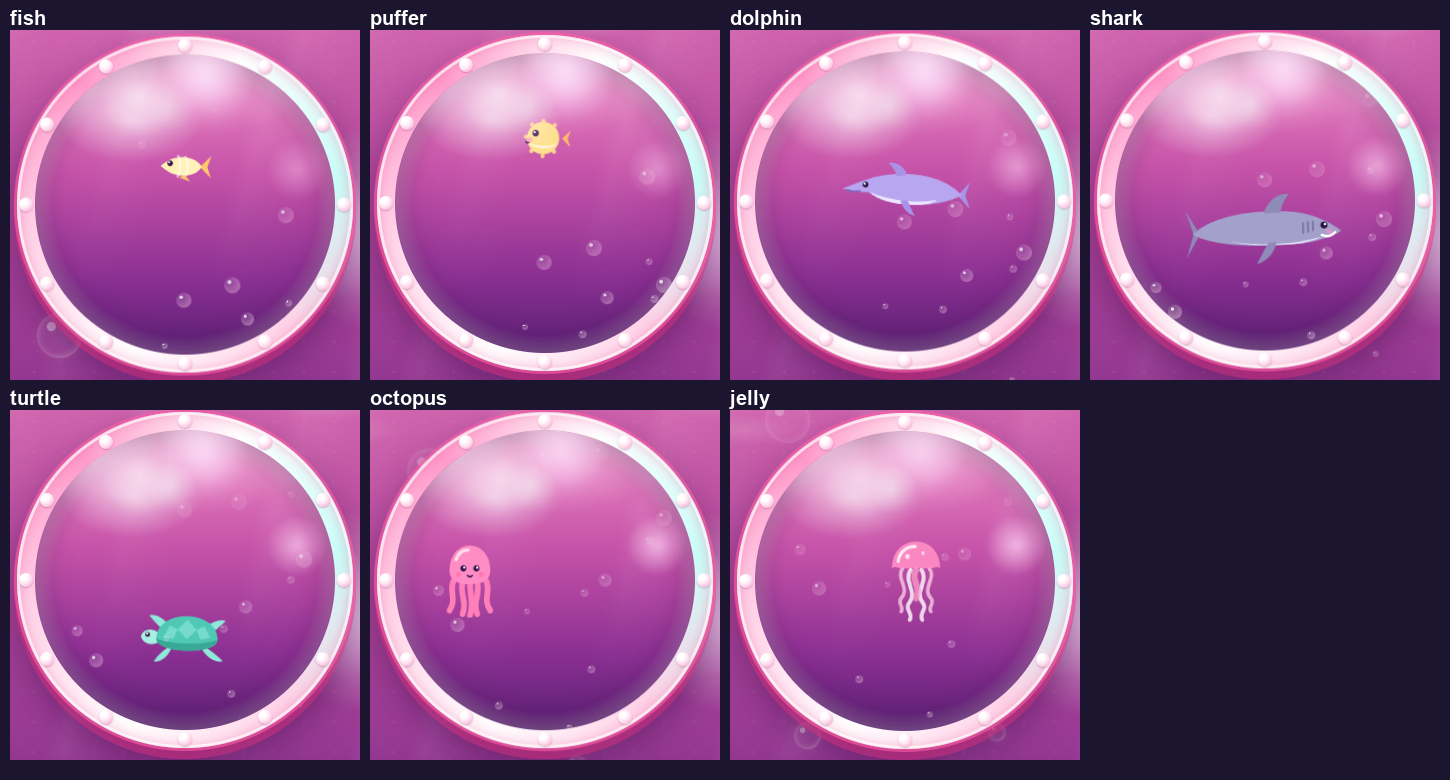
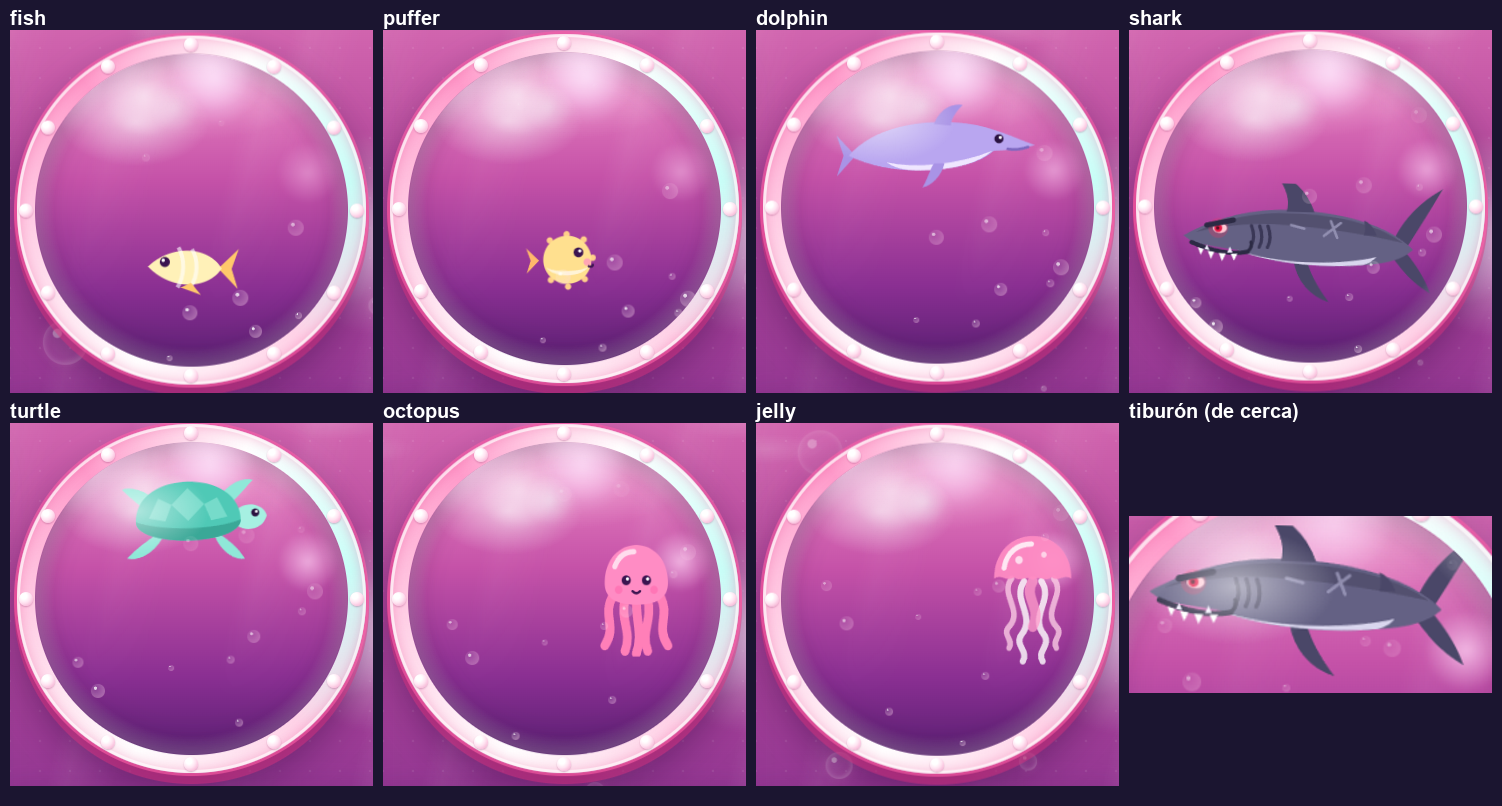
Overlay: tiburón que da miedo y animales más grandes

diff --git a/overlay/overlay.html b/overlay/overlay.html
@@ -518,16 +518,36 @@ html, body {
     <circle cx="96" cy="21" r="2.6" fill="#2a1240"/><circle cx="96.8" cy="20.2" r=".9" fill="#fff"/>
     <path d="M101 27 C106 28 110 27 113 26" stroke="#7d68c0" stroke-width="1.6" fill="none" stroke-linecap="round"/>
   </symbol>
-  <symbol id="c-shark" viewBox="0 0 130 58">
-    <path d="M12 31 L1 12 L7 31 L1 50Z" fill="#8e8bb8"/>
-    <path d="M6 31 C20 18 48 12 82 14 C102 15 117 23 127 31 C117 37 101 41 82 41 C48 43 20 39 6 31Z" fill="#a3a0cc"/>
-    <path d="M36 37 C56 42 90 42 112 35 C101 40 92 41 82 41 C60 42 46 40 36 37Z" fill="#ecebff"/>
-    <path d="M64 15 C70 1 80 -1 85 0 C80 6 78 12 78 15Z" fill="#8e8bb8"/>
-    <path d="M74 39 C72 49 64 55 58 56 C63 47 66 41 68 39Z" fill="#8e8bb8"/>
-    <path d="M96 24 V32 M100 23 V31 M104 23 V30" stroke="#7d7aa8" stroke-width="1.8" stroke-linecap="round"/>
-    <circle cx="113" cy="26" r="2.8" fill="#2a1240"/><circle cx="113.8" cy="25.2" r="1" fill="#fff"/>
-    <path d="M111 34 C115 36 119 35 122 32" stroke="#fff" stroke-width="2" fill="none" stroke-linecap="round"/>
-    <circle cx="117" cy="31" r="2.4" fill="#ff8cc4" opacity=".55"/>
+  <symbol id="c-shark" viewBox="0 0 160 72">
+    <!-- cola (lóbulo de arriba más grande, como un tiburón de verdad) -->
+    <path d="M22 37 C14 24 7 12 1 1 C15 9 25 21 30 33Z" fill="#4a4768"/>
+    <path d="M22 40 C15 48 10 56 7 64 C18 58 25 50 30 43Z" fill="#4a4768"/>
+    <!-- aleta de abajo -->
+    <path d="M90 46 C88 59 79 68 68 71 C76 61 80 53 82 46Z" fill="#4a4768"/>
+    <!-- cuerpo -->
+    <path d="M18 38 C32 24 62 15 100 16 C124 17 143 25 157 33 L151 37 C142 39 132 40 124 41 C106 48 74 51 48 48 C34 47 24 44 18 38Z" fill="#646184"/>
+    <!-- lomo más oscuro -->
+    <path d="M24 34 C40 23 66 17 100 18 C122 19 138 25 150 31 C132 26 112 24 98 25 C70 26 44 30 24 34Z" fill="#53506f"/>
+    <!-- barriga clara -->
+    <path d="M40 43 C64 49 100 49 124 41 C106 48 74 51 48 48 C44 47 42 45 40 43Z" fill="#d9d6ee"/>
+    <!-- aleta de arriba, afilada -->
+    <path d="M78 17 C84 2 93 -4 102 -5 C95 3 93 11 95 17Z" fill="#4a4768"/>
+    <path d="M40 30 C42 25 45 22 48 21 C47 25 47 28 48 30Z" fill="#4a4768"/>
+    <!-- branquias -->
+    <path d="M106 26 C104 31 104 35 106 39 M111 26 C109 31 109 35 111 39 M116 26 C114 31 114 35 116 38" stroke="#3a3756" stroke-width="2" fill="none" stroke-linecap="round"/>
+    <!-- cicatrices -->
+    <path d="M62 23 L72 31 M68 22 L64 32 M84 27 L92 25" stroke="#9e9bbd" stroke-width="1.6" stroke-linecap="round" opacity=".8"/>
+    <!-- boca cerrada, larga y seria, con dientes que asoman -->
+    <path d="M118 42 C128 44 140 42 152 37" stroke="#2c2a44" stroke-width="2.6" fill="none" stroke-linecap="round"/>
+    <path d="M118 42 C116 40 115 38 116 36" stroke="#2c2a44" stroke-width="2" fill="none" stroke-linecap="round"/>
+    <path d="M124 43.2 L126 47.5 L128 43.4Z M131 43.3 L133.2 48 L135.3 43.1Z M138 42.6 L140 46.8 L142 42Z M144.5 41 L146.2 44.6 L148 40Z" fill="#fff"/>
+    <path d="M127 42.6 L128.6 39 L130.2 42.8Z M141 41.6 L142.6 38.2 L144 41Z" fill="#f2efff"/>
+    <!-- ojo rojo con ceño -->
+    <ellipse cx="135" cy="28" rx="4.2" ry="3" fill="#fff"/>
+    <circle cx="136" cy="28" r="2.4" fill="#e0103f"/>
+    <circle cx="136.3" cy="28" r="1" fill="#1a0610"/>
+    <circle cx="136" cy="28" r="6" fill="#ff2a5a" opacity=".25"/>
+    <path d="M127 23 L143 26.5" stroke="#2c2a44" stroke-width="3.2" stroke-linecap="round"/>
   </symbol>
   <symbol id="c-turtle" viewBox="0 0 96 58">
     <path d="M30 40 C24 50 14 54 8 52 C14 46 20 42 26 38Z M62 40 C66 50 74 55 80 54 C76 47 70 42 64 38Z" fill="#8fe8d8"/>
@@ -680,7 +700,7 @@ html, body {
   // ----- ojo de buey: centrado en el hueco que queda encima de la cámara -----
   var ph = document.querySelector('.porthole');
   var top = 122, bottom = LAYOUT.cam.y - BORDER - 10;       // espacio libre encima de la cámara
-  var D = Math.min(300, bottom - top - 50, LAYOUT.cam.w - 60);
+  var D = Math.min(314, bottom - top - 40, LAYOUT.cam.w - 56);
   ph.style.width = ph.style.height = D + 'px';
   ph.style.left = (LAYOUT.cam.x + LAYOUT.cam.w / 2 - D / 2) + 'px';
   ph.style.top = (top + (bottom - top) / 2 - D / 2) + 'px';
@@ -695,13 +715,13 @@ html, body {
   // ----- animales que pasan por la ventana, al azar (como mucho 2 a la vez) -----
   // w: ancho en px · s: segundos que tardan en cruzar · up: suben en vez de cruzar de lado
   var CRIATURAS = [
-    { id: 'c-fish',    peso: 30, w: [46, 64],   s: [6, 9],   colores: [['#ffd3e8', '#ff9ccb'], ['#c8fff8', '#7ff3e6'], ['#fff1b8', '#ffc86b'], ['#e6d8ff', '#b79cff']] },
-    { id: 'c-puffer',  peso: 12, w: [48, 58],   s: [8, 11] },
-    { id: 'c-dolphin', peso: 13, w: [120, 140], s: [4, 5.5], fast: true, arc: 40 },
-    { id: 'c-shark',   peso: 11, w: [140, 165], s: [8, 10] },
-    { id: 'c-turtle',  peso: 11, w: [86, 100],  s: [10, 13] },
-    { id: 'c-octopus', peso: 11, w: [54, 64],   s: [8, 11], up: true, pulse: true },
-    { id: 'c-jelly',   peso: 12, w: [52, 64],   s: [10, 13], up: true, pulse: true }
+    { id: 'c-fish',    peso: 30, w: [80, 105],  s: [6, 9],   colores: [['#ffd3e8', '#ff9ccb'], ['#c8fff8', '#7ff3e6'], ['#fff1b8', '#ffc86b'], ['#e6d8ff', '#b79cff']] },
+    { id: 'c-puffer',  peso: 12, w: [78, 92],   s: [8, 11] },
+    { id: 'c-dolphin', peso: 13, w: [190, 215], s: [4.5, 6], fast: true, arc: 40 },
+    { id: 'c-shark',   peso: 11, w: [235, 265], s: [8, 10] },
+    { id: 'c-turtle',  peso: 11, w: [140, 160], s: [10, 13] },
+    { id: 'c-octopus', peso: 11, w: [90, 105],  s: [8, 11], up: true, pulse: true },
+    { id: 'c-jelly',   peso: 12, w: [84, 98],   s: [10, 13], up: true, pulse: true }
   ];
   var swimmers = ph.querySelector('.swimmers'), activos = 0, ultimo = '';
   function entre(r) { return r[0] + Math.random() * (r[1] - r[0]); }
@@ -736,13 +756,13 @@ html, body {
     var frames, dur = entre(c.s) * 1000;
     if (c.up) {
       // pulpos y medusas suben desde abajo
-      var x0 = 30 + Math.random() * (D - w - 60), x1 = x0 + (Math.random() - .5) * 90;
+      var x0 = 20 + Math.random() * Math.max(10, D - w - 40), x1 = x0 + (Math.random() - .5) * 90;
       frames = [{ transform: 'translate(' + x0 + 'px,' + (D + 10) + 'px)' },
                 { transform: 'translate(' + ((x0 + x1) / 2 + 20) + 'px,' + (D / 2 - h / 2) + 'px)' },
                 { transform: 'translate(' + x1 + 'px,' + (-h - 10) + 'px)' }];
     } else {
       // el resto cruza de un lado a otro (los delfines con un saltito)
-      var y0 = 30 + Math.random() * (D - h - 70), y1 = Math.max(20, Math.min(D - h - 30, y0 + (Math.random() - .5) * 70));
+      var y0 = 20 + Math.random() * Math.max(10, D - h - 50), y1 = Math.max(10, Math.min(D - h - 20, y0 + (Math.random() - .5) * 60));
       var a0 = izq ? D + 10 : -w - 10, a1 = izq ? -w - 10 : D + 10;
       frames = [{ transform: 'translate(' + a0 + 'px,' + y0 + 'px)' },
                 { transform: 'translate(' + (a0 + a1) / 2 + 'px,' + ((y0 + y1) / 2 - (c.arc || 0)) + 'px)' },
